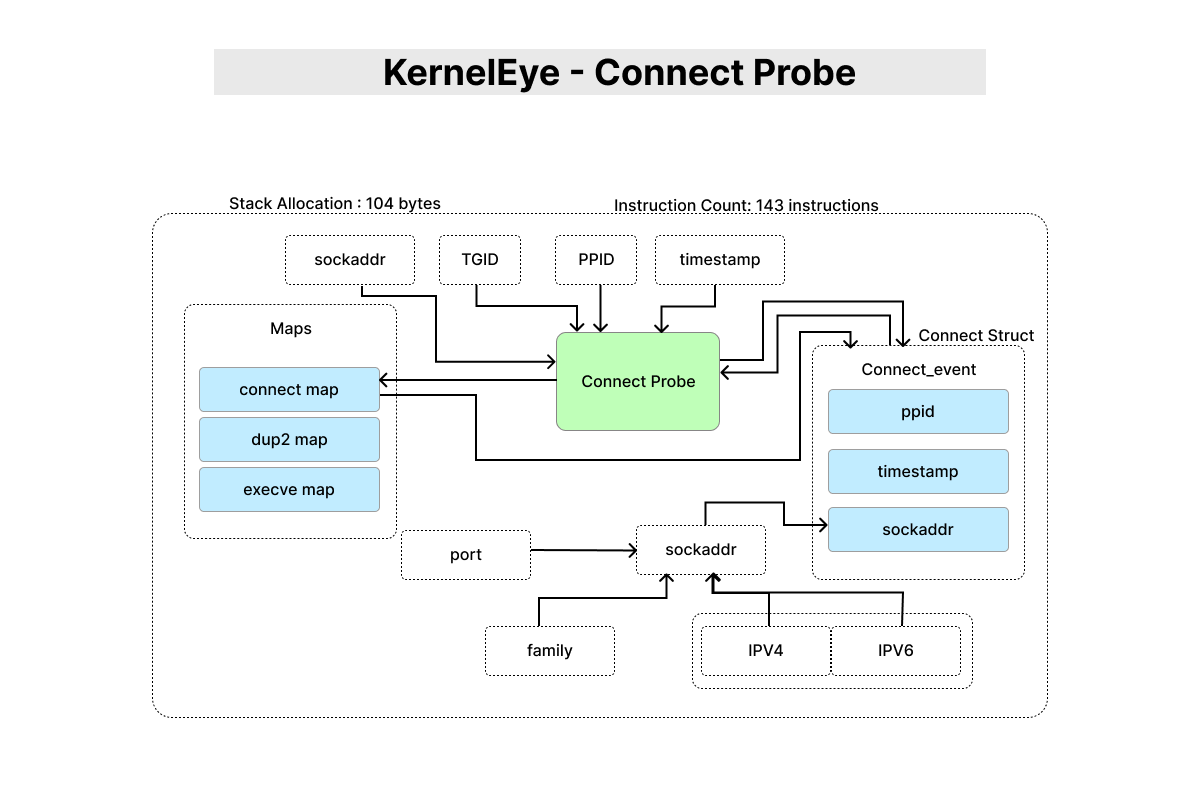
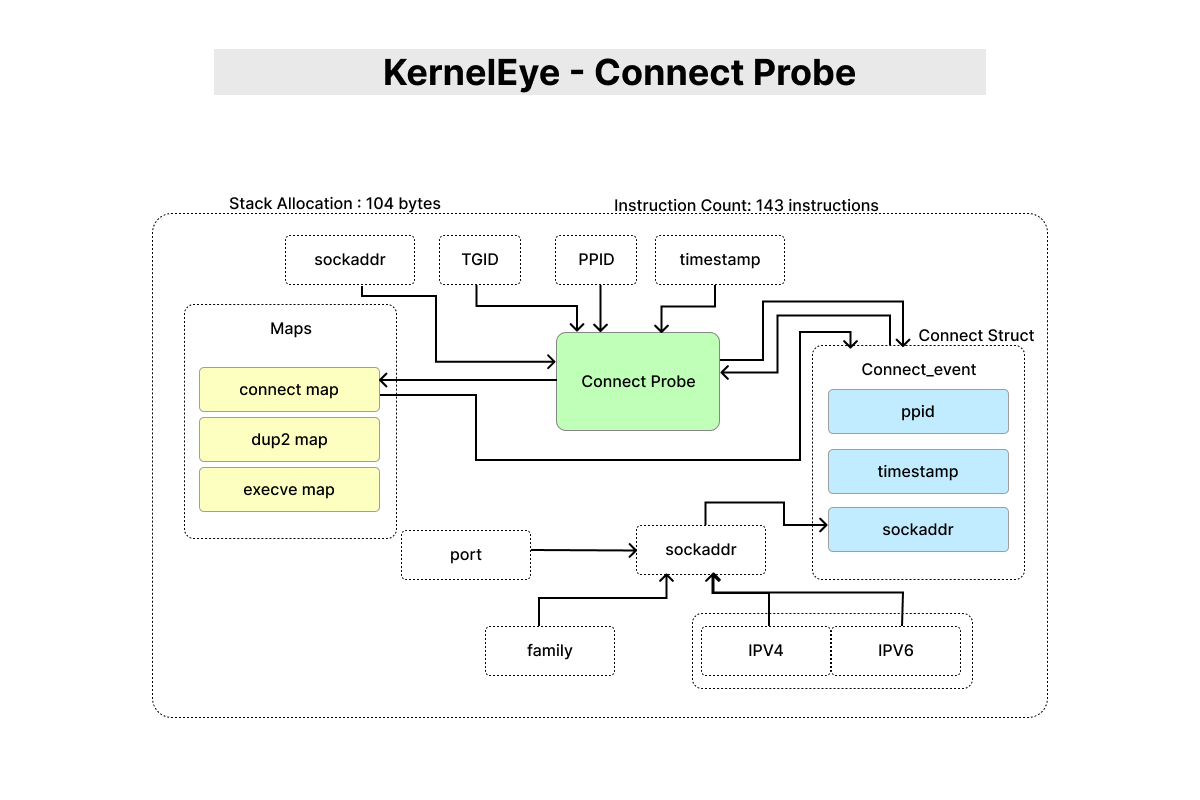
feat: Add dup2 probe document

Changed region(s): [[0.1542, 0.4375, 0.3392, 0.6562]]

diff --git a/docs/02_Architecture/03_kernel_layer/02_probes/02_dup2_probe.md b/docs/02_Architecture/03_kernel_layer/02_probes/02_dup2_probe.md
@@ -1,0 +1,207 @@
+# KernelEye - Dup2 Probe
+
+> This document describes the `dup2` syscall probe used in Kernel Eye.  
+> It tracks file descriptor redirection behavior, which is a critical signal in detecting interactive shells such as reverse shells.
+
+<img src="../../images/dup2_probe.png">
+
+---
+
+## 1. Purpose
+
+The dup2 probe monitors the `dup2` syscall to detect **file descriptor redirection**, particularly involving standard input/output streams.
+
+This behavior is commonly observed in:
+- Reverse shells
+- Remote command execution setups
+- Interactive process control over network sockets
+
+---
+
+## 2. Tracepoint Hook
+
+```c
+SEC("tracepoint/syscalls/sys_enter_dup2")
+````
+
+This probe triggers whenever a process invokes the `dup2` syscall.
+
+---
+
+## 3. Data Captured
+
+The probe records:
+
+* Process ID (`pid`)
+* Parent Process ID (`ppid`)
+* Timestamp (`last_dup2_ts`)
+* Number of stdio redirections (`stdio_redirects`)
+
+---
+
+## 4. Execution Flow
+
+1. Retrieve:
+
+   * PID (`get_tgid`)
+   * PPID (`get_ppid`)
+   * Timestamp (`get_trigger_time`)
+2. Extract new file descriptor (`fd_new`)
+3. Filter:
+
+   * Only track `fd <= 2` (stdin, stdout, stderr)
+4. Sanitize PID and PPID
+5. Check if state exists in `dup2_map`
+
+   * If exists → update existing state
+   * If not → create new state
+6. Store/update state in `dup2_map`
+
+---
+
+## 5. File Descriptor Filtering
+
+```c
+if(fd_new > 2) return 0;
+```
+
+### Why?
+
+* Only `0`, `1`, `2` (stdin, stdout, stderr) are relevant for shell interaction
+* Prevents noise from unrelated file descriptor operations
+* Focuses detection on meaningful redirection behavior
+
+---
+
+## 6. Map Interaction
+
+* **Map Used:** `dup2_map`
+* **Key:** `pid`
+* **Value:** `struct dup2_state`
+
+### Structure Fields:
+
+* `ppid` → parent process
+* `last_dup2_ts` → last redirection timestamp
+* `stdio_redirects` → number of redirections
+
+---
+
+### Update Strategy
+
+```c
+event = check_map_data_availability(&dup2_map, &pid);
+```
+
+* If entry exists:
+
+  * Update timestamp
+  * Increment redirect count
+* If not:
+
+  * Create new state
+
+### Why this matters:
+
+* Avoids resetting state on repeated syscalls
+* Allows tracking **multiple redirections over time**
+* Enables stronger behavioral correlation
+
+---
+
+## 7. Stack Usage & Memory Layout
+
+### Verifier-Observed Stack Usage
+
+* **Maximum stack depth:** 32 bytes
+* **Limit:** 512 bytes → Safe
+
+---
+
+### Stack Layout (r10 frame pointer)
+
+```id="qv0u2x"
+r10 (top of stack)
+│
+│  -0     : scratch
+│  -4     : ppid
+│  -8     : pid
+│  -12    : stdio_redirects (aligned)
+│  -16    : dup2_state.ppid
+│  -24    : dup2_state.last_dup2_ts
+```
+
+---
+
+### Design Notes
+
+* Very low stack usage → efficient and verifier-friendly
+* 1-byte field (`stdio_redirects`) aligned by verifier
+* Minimal memory footprint per event
+
+---
+
+## 8. Instruction Count
+
+* **Total instructions:** 82
+* **Program size:** 656 bytes
+
+### Notes:
+
+* Lightweight compared to other probes
+* Optimized for high-frequency syscall environments
+
+---
+
+## 9. Data Validation
+
+* `sanitize_the_pid(pid)`
+* `sanitize_the_pid(ppid)`
+
+### Purpose:
+
+* Ignore kernel threads
+* Avoid invalid or idle processes
+
+---
+
+## 10. Behavioral Role in Detection
+
+This probe is critical for identifying **interactive session behavior**.
+
+### Example (reverse shell pattern):
+
+```id="a0h1rz"
+connect → dup2 → execve
+```
+
+### Interpretation:
+
+* `connect` → establishes remote connection
+* `dup2` → redirects stdio to socket
+* `execve` → spawns shell
+
+---
+
+## 11. Detection Signal Strength
+
+* A single `dup2` call is weak signal
+* Multiple redirects (`stdio_redirects++`) increase confidence
+
+### Insight:
+
+> The more stdio redirections observed, the higher the likelihood of an interactive shell.
+
+---
+
+## 12. Design Considerations
+
+* **Noise reduction:** tracks only stdio descriptors
+* **Stateful tracking:** accumulates behavior over time
+* **Efficient updates:** avoids unnecessary allocations
+* **Correlation-ready:** integrates with connect + execve
+
+---
+
+
+This probe provides the **interaction signal** required to elevate network activity into confirmed shell behavior.
